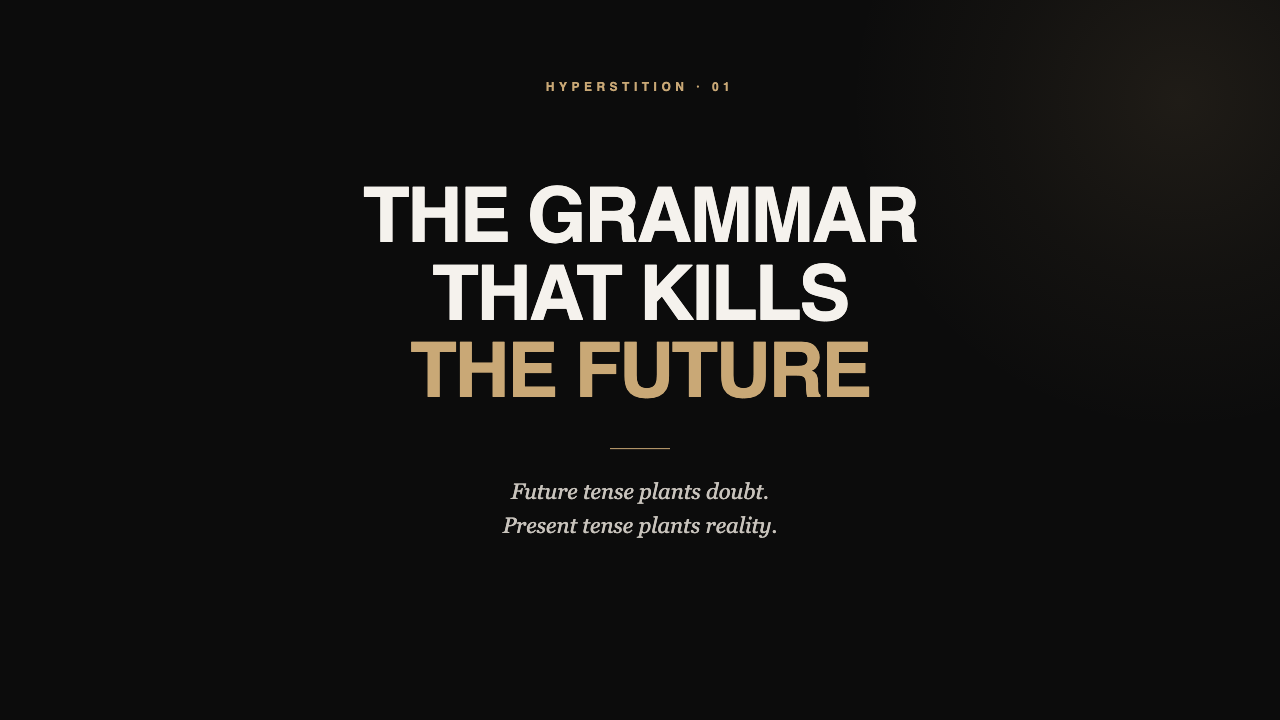
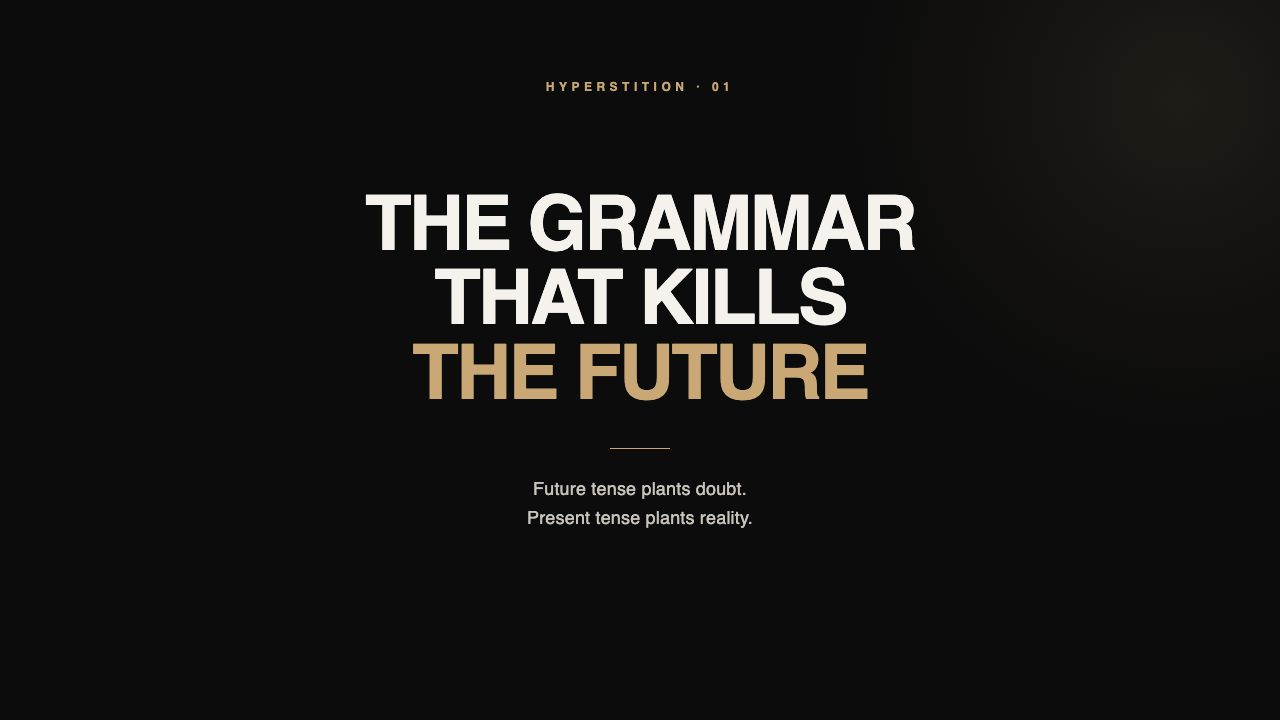
Newsletter cover: unify typo to Inter 900, drop italic sub-line

Changed region(s): [[0.2812, 0.2444, 0.7188, 0.55], [0.375, 0.6722, 0.5938, 0.7639], [0.4688, 0.4583, 0.5, 0.4889]]

diff --git a/newsletter-hyperstition-01.html b/newsletter-hyperstition-01.html
@@ -2,7 +2,7 @@
 <html>
 <head>
 <meta charset="UTF-8">
-<link href="https://fonts.googleapis.com/css2?family=Inter:wght@400;500;600;700;800;900&family=DM+Serif+Display:ital@0;1&display=swap" rel="stylesheet">
+<link href="https://fonts.googleapis.com/css2?family=Inter:wght@400;500;600;700;800;900&display=swap" rel="stylesheet">
 <style>
 * { margin: 0; padding: 0; box-sizing: border-box; }
 html, body { width: 1280px; height: 720px; }
@@ -49,9 +49,9 @@ body::before {
 
 .title {
     font-size: 76px;
-    font-weight: 800;
-    line-height: 1.02;
-    letter-spacing: -2.2px;
+    font-weight: 900;
+    line-height: 0.98;
+    letter-spacing: -2.6px;
     text-transform: uppercase;
     color: #f5f2ed;
 }
@@ -66,12 +66,12 @@ body::before {
 }
 
 .sub {
-    font-family: 'DM Serif Display', Georgia, serif;
-    font-style: italic;
-    font-size: 22px;
-    line-height: 1.55;
+    font-family: 'Inter', sans-serif;
+    font-size: 18px;
+    line-height: 1.6;
     color: #c8c3bc;
     font-weight: 400;
+    letter-spacing: 0.01em;
 }
 
 .signature {
